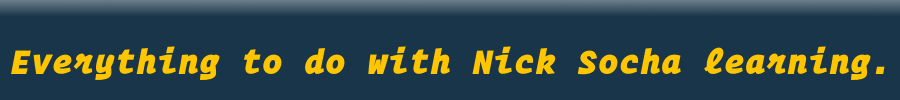
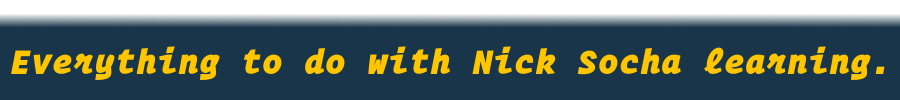
Update 12092018
Updated png.

Changed region(s): [[0.0, 0.0, 1.0, 0.27]]

diff --git a/README.md b/README.md
@@ -1,7 +1,47 @@
-# <img src="images/everything-to-do-with-nick-socha-learning.png">
+<img src="images/everything-to-do-with-nick-socha-learning.png">
 
 ## 2018
 
-### <img src="images/udacity.png" height="14">[ Project: Animal Trading Cards](https://github.com/nicksocha-school/udacity-project-animal-trading-cards#project-animal-trading-cards)
+#### <img src="images/udacity.png" height="14">[ Project: Animal Trading Cards](https://github.com/nicksocha-school/udacity-project-animal-trading-cards#project-animal-trading-cards)
 
-### <img src="images/udacity.png" height="14">[ Project: Build a Portfolio Site](https://github.com/nicksocha-school/udacity-project-build-a-portfolio-site#project-build-a-portfolio-site)
+#### <img src="images/udacity.png" height="14">[ Project: Build a Portfolio Site](https://github.com/nicksocha-school/udacity-project-build-a-portfolio-site#project-build-a-portfolio-site)
+
+#### <img src="images/udacity.png" height="14">[ Project: Movie Trailer Website](https://github.com/nicksocha-school/udacity-project-movie-trailer-website)
+
+#### <img src="images/udacity.png" height="14">[ Quiz: 99 Bottles of Juice](https://github.com/nicksocha-school/udacity-quiz-99-bottles-of-juice)
+
+#### <img src="images/udacity.png" height="14">[ Quiz: Another Type of Loop](https://github.com/nicksocha-school/udacity-quiz-another-type-of-loop)
+
+#### <img src="images/udacity.png" height="14">[ Quiz: Back to School](https://github.com/nicksocha-school/udacity-quiz-back-to-school)
+
+#### <img src="images/udacity.png" height="14">[ Quiz: Build a Triangle](https://github.com/nicksocha-school/udacity-quiz-build-a-triangle)
+
+#### <img src="images/udacity.png" height="14">[ Quiz: Checking your Balance](https://github.com/nicksocha-school/udacity-quiz-checking-your-balance)
+
+#### <img src="images/udacity.png" height="14">[ Quiz: Countdown, Liftoff!](https://github.com/nicksocha-school/udacity-quiz-countdown-liftoff)
+
+#### <img src="images/udacity.png" height="14">[ Quiz: Even or Odd](https://github.com/nicksocha-school/udacity-quiz-even-or-odd)
+
+#### <img src="images/udacity.png" height="14">[ Quiz: Factorials!](https://github.com/nicksocha-school/udacity-quiz-factorials)
+
+#### <img src="images/udacity.png" height="14">[ Quiz: Find my Seat](https://github.com/nicksocha-school/udacity-quiz-find-my-seat)
+
+#### <img src="images/udacity.png" height="14">[ Quiz: Ice Cream](https://github.com/nicksocha-school/udacity-quiz-ice-cream)
+
+#### <img src="images/udacity.png" height="14">[ Quiz: Inline](https://github.com/nicksocha-school/udacity-quiz-inline)
+
+#### <img src="images/udacity.png" height="14">[ Quiz: JuliaJames](https://github.com/nicksocha-school/udacity-quiz-juliajames)
+
+#### <img src="images/udacity.png" height="14">[ Quiz: Mad Libs](https://github.com/nicksocha-school/udacity-quiz-mad-libs)
+
+#### <img src="images/udacity.png" height="14">[ Quiz: Murder Mystery](https://github.com/nicksocha-school/udacity-quiz-murder-mystery)
+
+#### <img src="images/udacity.png" height="14">[ Quiz: Musical Groups](https://github.com/nicksocha-school/udacity-quiz-musical-groups)
+
+#### <img src="images/udacity.png" height="14">[ Quiz: Navigating the Food Chain](https://github.com/nicksocha-school/udacity-quiz-navigating-the-food-chain)
+
+#### <img src="images/udacity.png" height="14">[ Quiz: One Awesome Message](https://github.com/nicksocha-school/udacity-quiz-one-awesome-message)
+
+#### <img src="images/udacity.png" height="14">[ Quiz: Quidditch Cup](https://github.com/nicksocha-school/udacity-quiz-quidditch-cup)
+
+#### <img src="images/udacity.png" height="14">[ Quiz: What do I Wear?](https://github.com/nicksocha-school/udacity-quiz-what-do-i-wear)
